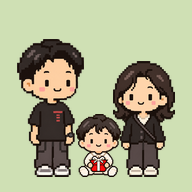
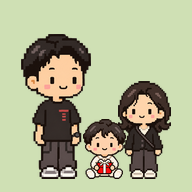
Show the real height gap between 관이 and 넝이
Claude-Session: https://claude.ai/code/session_01AUFFJCguZREhMY6vwcefDJ

Changed region(s): [[0.0625, 0.1562, 0.9375, 0.9375]]

diff --git a/goals/index.html b/goals/index.html
@@ -69,9 +69,9 @@ h1 { font-family: var(--f-pixel); font-weight: 400; font-size: 24px; margin: 0; 
 .pair { position: absolute; display: flex; align-items: flex-end; transform: translate(-50%, -90%); transition: left 1.2s ease-in-out, top 1.2s ease-in-out; pointer-events: none; }
 .pair img { display: block; animation: hop 1s steps(2) infinite; }
 .pair img.g { height: 88px; }
-.pair img.n { height: 74px; margin-left: -14px; animation-delay: -.5s; }
+.pair img.n { height: 60px; margin-left: -14px; animation-delay: -.5s; }
 @keyframes hop { 50% { transform: translateY(-3px); } }
-@media (max-width: 380px) { .pair img.g { height: 72px; } .pair img.n { height: 61px; } }
+@media (max-width: 380px) { .pair img.g { height: 72px; } .pair img.n { height: 49px; } }
 .bubble { position: absolute; font-family: var(--f-pixel); font-size: 12px; background: var(--card); color: var(--fg); border: 2px solid var(--fg); padding: 1px 8px; white-space: nowrap; transform: translate(0, -100%); transition: left 1.2s, top 1.2s; }
 .finish { position: absolute; right: 8px; top: 13%; font-family: var(--f-pixel); font-size: 12px; background: var(--card); border: 2px solid var(--fg); padding: 1px 6px; }
 .cheer { position: absolute; left: 50%; top: 40%; transform: translate(-50%, -50%); font-family: var(--f-pixel); font-size: 26px; background: var(--card); border: 3px solid var(--fg); padding: 6px 16px; box-shadow: 4px 4px 0 var(--fg); }

diff --git a/goals/sw.js b/goals/sw.js
@@ -1,5 +1,5 @@
 // Keeps the app shell available offline; goal data always comes live from the database.
-const CACHE = 'wanju-v4';
+const CACHE = 'wanju-v5';
 const SHELL = ['./', './index.html', './app.js', './firebase-config.js', './img/gwan.png', './img/neong.png', './icon-192.png'];
 self.addEventListener('install', e => { e.waitUntil(caches.open(CACHE).then(c => c.addAll(SHELL)).then(() => self.skipWaiting())); });
 self.addEventListener('activate', e => { e.waitUntil(caches.keys().then(ks => Promise.all(ks.filter(k => k !== CACHE).map(k => caches.delete(k)))).then(() => self.clients.claim())); });
